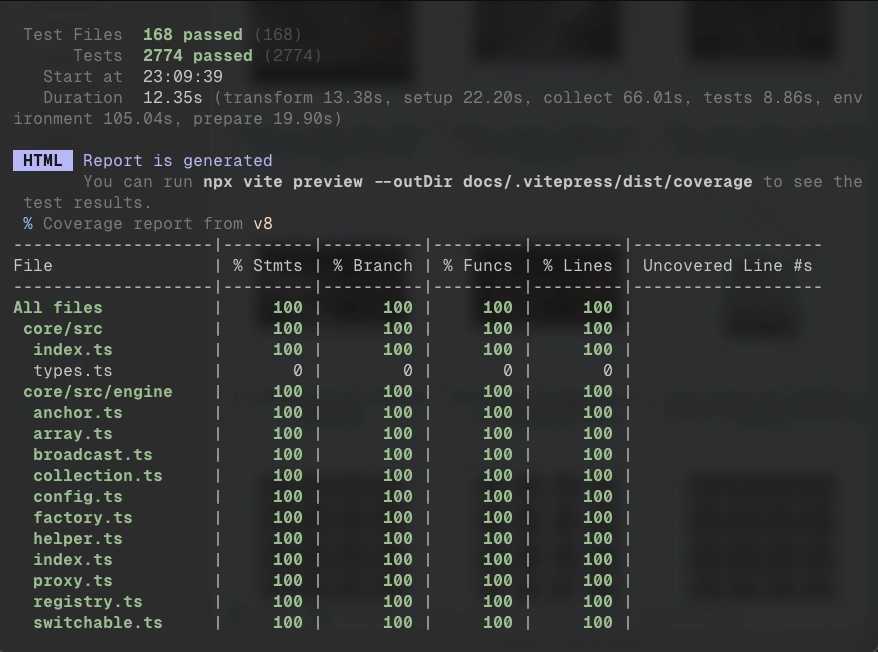
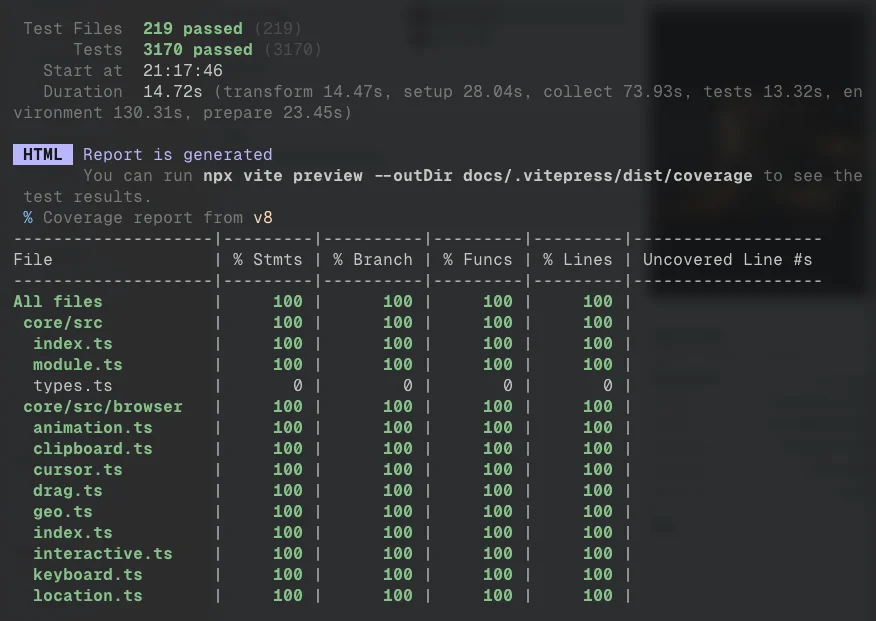
docs: update test coverage details in documentation
- Updated test coverage text to reflect increase from 2,700 to 3,100 tests.
- Updated test coverage image to align with revised metrics.

diff --git a/docs/index.md b/docs/index.md
@@ -397,7 +397,7 @@ export function Checkout({ cartId, method }: { cartId: string, method: string })
 <!-- SECTION 1: TEST COVERAGE (Text Left, Image Right) -->
 <div class="custom-section">
   <div class="custom-section-content">
-    <h2>Battle-Tested, 100% Test Coverage with over 2,700 Tests</h2>
+    <h2>Battle-Tested, 100% Test Coverage with over 3,100 Tests</h2>
     <p>Trust your foundation. AIR Stack is built with uncompromising quality standards, achieving <strong>100% test coverage</strong> across its core packages. Every state mutation, reactive update, workflow branch, and IRPC transport is rigorously tested to ensure <strong>absolute reliability</strong> for your production applications.</p>
   </div>
   <div class="custom-section-code" style="display: flex; justify-content: center; align-items: center;">
